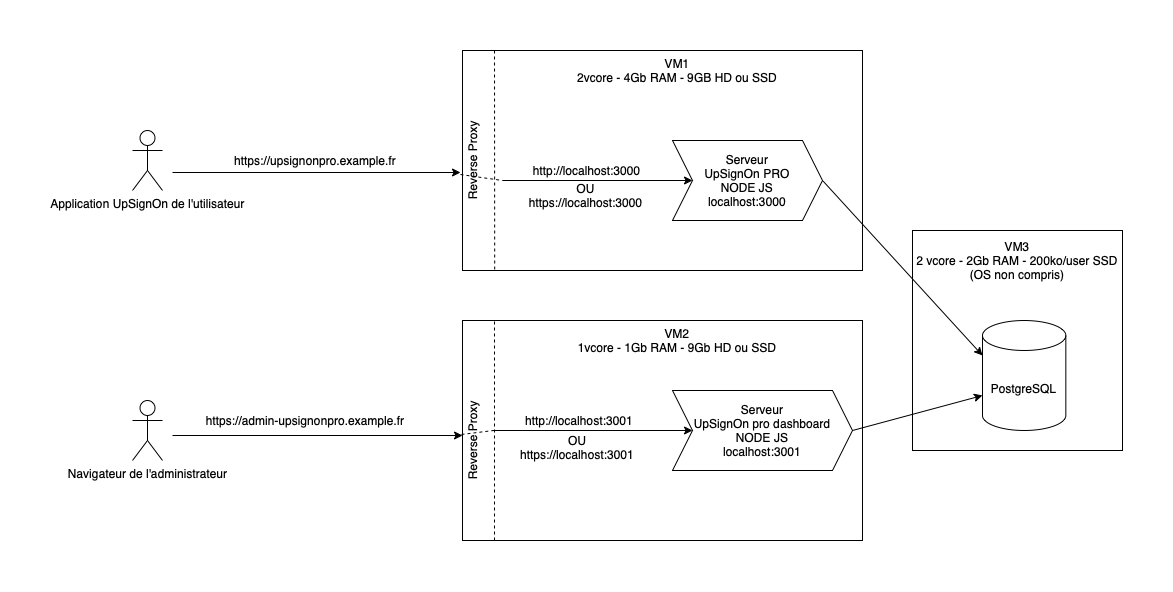
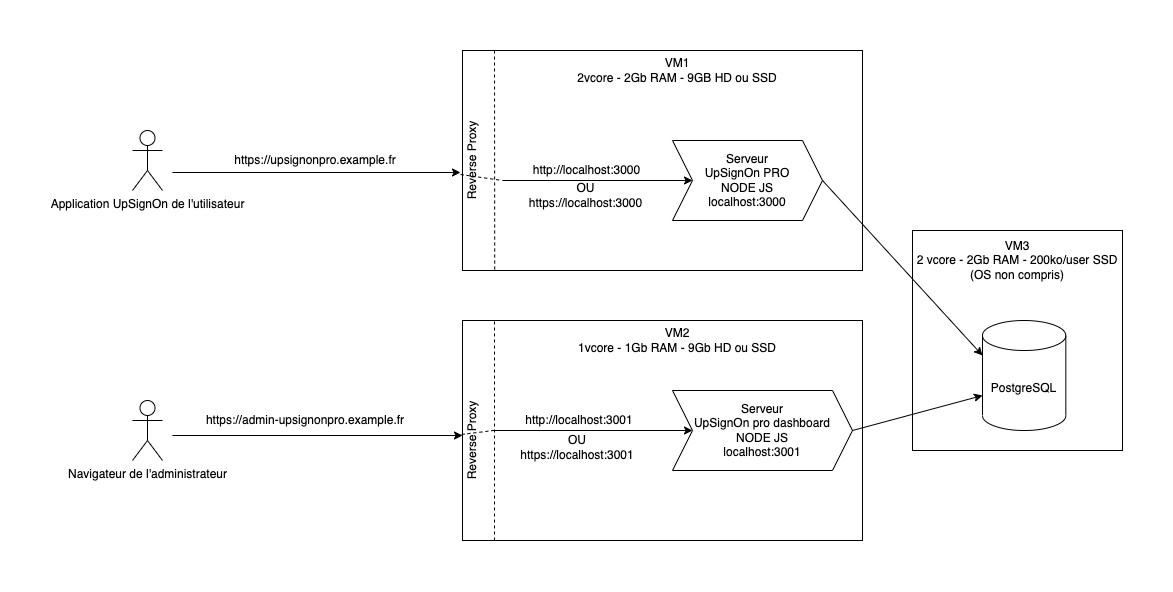
fix doc

diff --git a/doc/Install.md b/doc/Install.md
@@ -25,14 +25,14 @@ Notez cependant que le serveur UpSignOn PRO doit rester accessible depuis n'impo
 
 - OS : Debian 10
 - CPU : 2vcore
-- RAM : 512Mo minimum, 2Go pour un nombre d'utilisateurs plus importants (or système d'exploitation, donc compter peut-être 4Go si windows server, plus gourmand qu'un linux)
-- HD ou SSD : compter environ 3Go pour le système d'exploitation, les packages d'installation et le code + 6Go de logs par serveur maximum. Soit, pour l'architecture 1, 15Go de HD/SSD (hors base de données) et dans l'architecture 2, 2 fois 9 Go de HD/SSD.
+- RAM : 512Mo minimum, 2Go pour un nombre d'utilisateurs plus importants (compter peut-être 4Go si windows server, plus gourmand qu'un linux)
+- HD ou SSD : compter environ 3Go pour le système d'exploitation, les packages d'installation et le code + 6Go de logs par serveur maximum. Soit, pour l'architecture type 1, 15Go de HD/SSD (hors base de données) et dans l'architecture type 2, 2 fois 9 Go de HD/SSD.
 
 Serveur de base de données
 
 - votre OS de prédilection
 - CPU: 2vcore
-- RAM 512Mo
+- RAM 512Mo minimum, 2Go pour avoir un peu plus de marge
 - HD ou SD : compter environ 200ko par utilisateur, soit 100mo pour 500 utilisateurs.
 
 ## Tableau des flux
